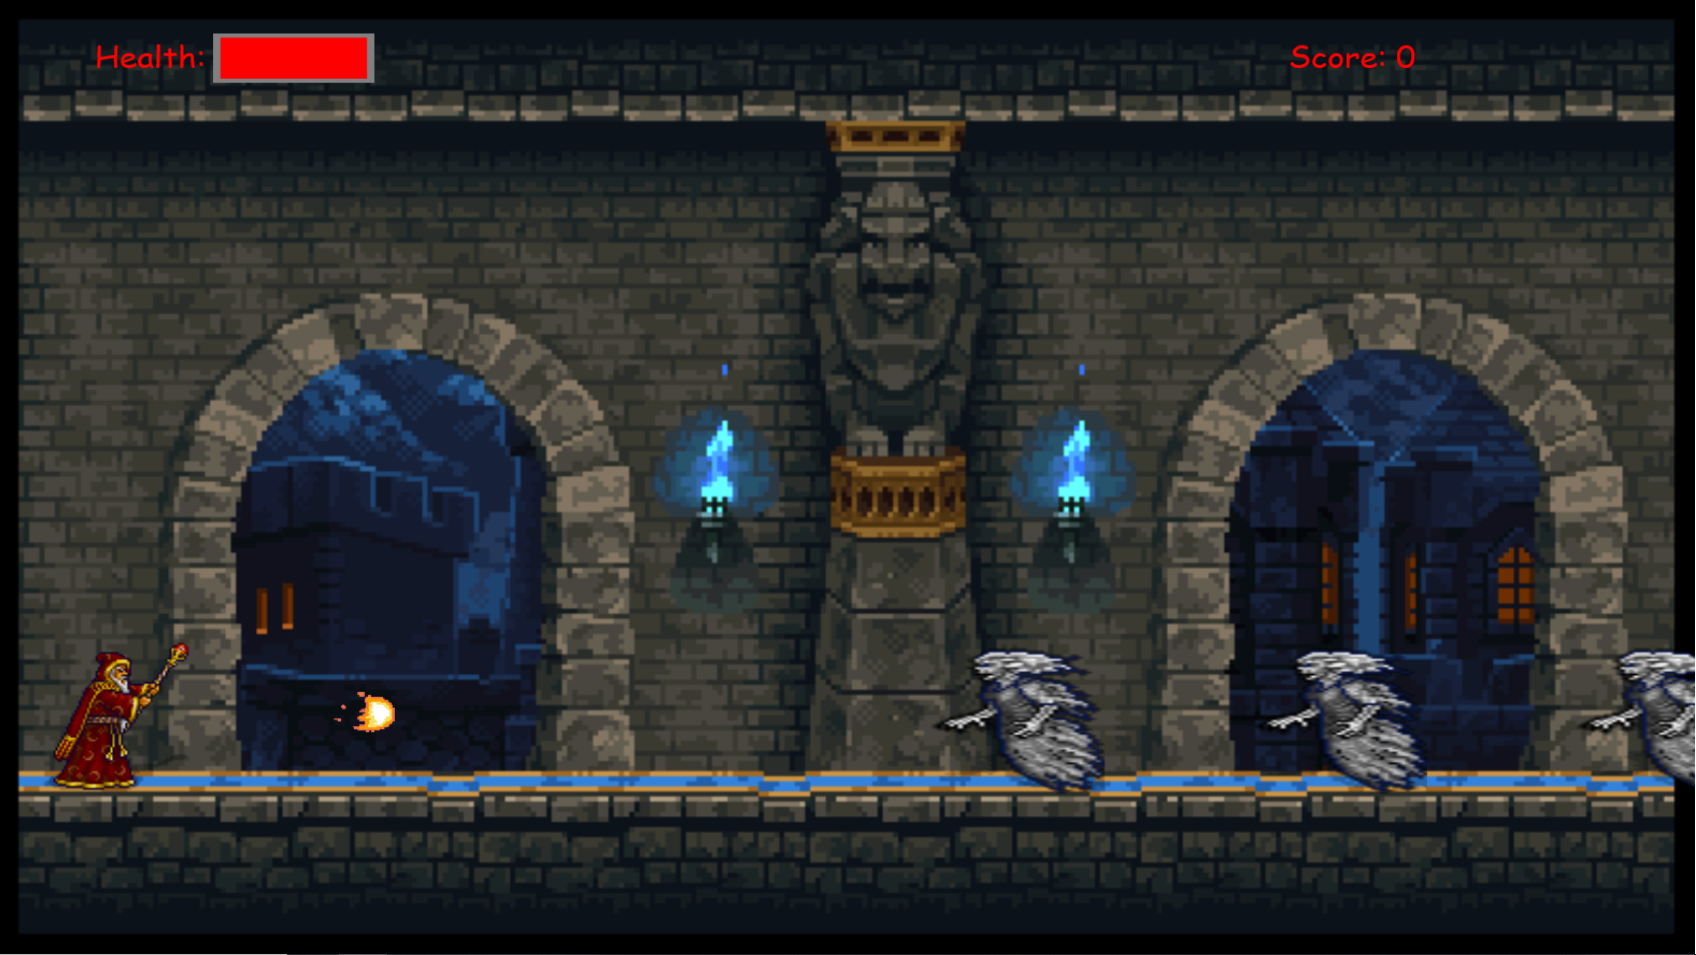
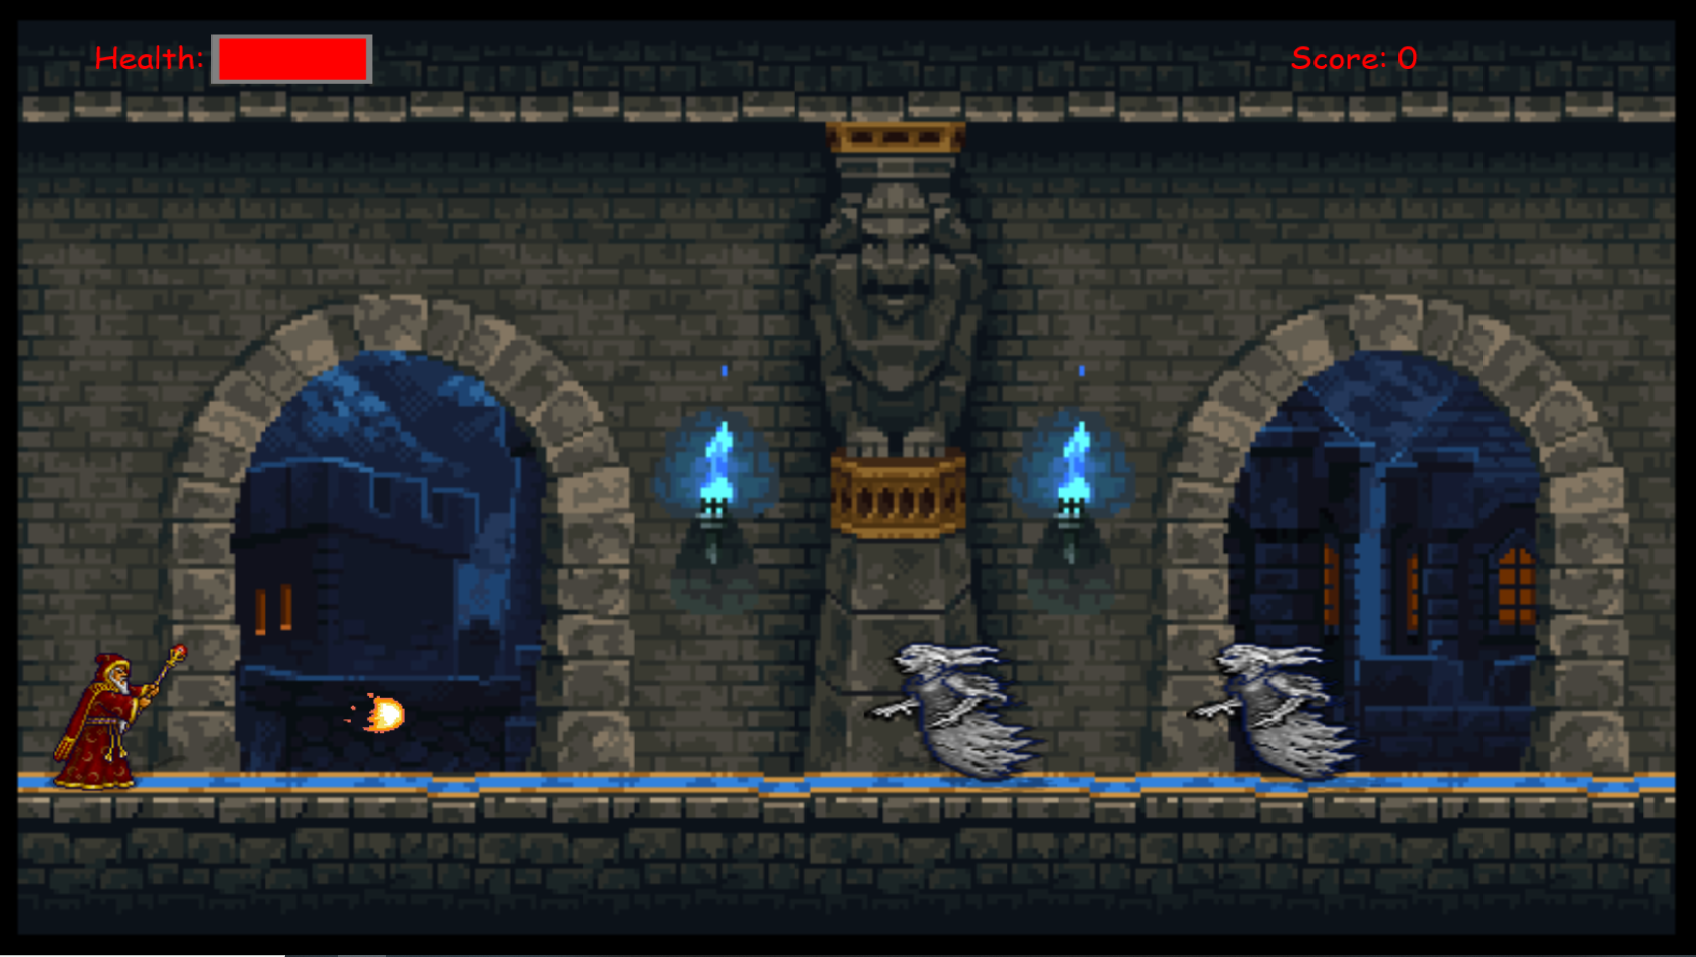
Changed main game screenshot

diff --git a/Game/Scenes/MainSceneInit.js b/Game/Scenes/MainSceneInit.js
@@ -10,7 +10,6 @@ class MainSceneInit extends Component
     {
         let skeleton;
         let skeleton2;
-        let skeleton3;
 
         let player;
         let scoreTextGO;
@@ -25,7 +24,6 @@ class MainSceneInit extends Component
         {
             skeleton = GameObject.find("skeleton");
             skeleton2 = GameObject.find("skeleton2");
-            skeleton3 = GameObject.find("skeleton3");
             player =  GameObject.find("player")
             scoreTextGO = GameObject.find("scoreText");
             scoreValueTextGO = GameObject.find("scoreValueText");
@@ -51,16 +49,6 @@ class MainSceneInit extends Component
         {
             skeleton2.transform.pos = new Vector2D(1300, 633);
             skeleton2.getComponent(SkeletonScript).health = 2;
-        }
-
-        if(skeleton3 == null)
-        {
-            GameMaster.createEnemy('skeleton3', new Vector2D(1600, 633), SceneManager.instance.runningScene.canvaces[0]);
-        }
-        else
-        {
-            skeleton3.transform.pos = new Vector2D(1600, 633);
-            skeleton3.getComponent(SkeletonScript).health = 2;
         }
 
         if(player == null)
